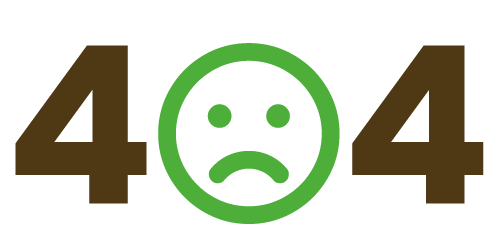
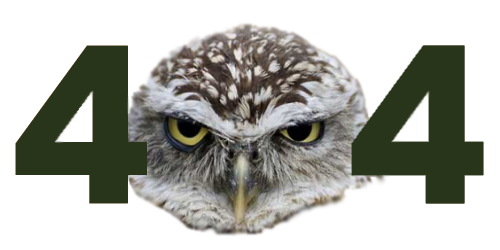
1.0.0a

diff --git a/index.html b/index.html
@@ -56,16 +56,6 @@
                         <a class="dropdown-item" href="blog-post.html">Blog Post</a>
                      </div>
                   </li>
-                  <li class="nav-item dropdown">
-                     <a class="nav-link dropdown-toggle" href="#" id="navbarDropdownBlog" data-toggle="dropdown" aria-haspopup="true" aria-expanded="false">
-                     Pages
-                     </a>
-                     <div class="dropdown-menu dropdown-menu-right" aria-labelledby="navbarDropdownBlog">
-                        <a class="dropdown-item" href="faq.html">FAQ</a>
-                        <a class="dropdown-item" href="404.html">404</a>
-                        <a class="dropdown-item" href="pricing.html">Pricing Table</a>
-                     </div>
-                  </li>
                   <li class="nav-item">
                      <a class="nav-link" href="contact.html">Contact</a>
                   </li>
@@ -75,14 +65,10 @@
     </nav>
     <header class="slider-main">
         <div id="carouselExampleIndicators" class="carousel slide carousel-fade" data-ride="carousel">
-            <ol class="carousel-indicators">
-               <li data-target="#carouselExampleIndicators" data-slide-to="0" class="active"></li>
-               <li data-target="#carouselExampleIndicators" data-slide-to="1"></li>
-               <li data-target="#carouselExampleIndicators" data-slide-to="2"></li>
             </ol>
             <div class="carousel-inner" role="listbox">
                <!-- Slide One - Set the background image for this slide in the line below -->
-               <div class="carousel-item active" style="background-image: url('images/parrot.gif')">
+               <div class="carousel-item active" style="background-image: url('images/parrot1.gif')">
                   <div class="carousel-caption d-none d-md-block">
                      <h3>Welcome to PARROT</h3>
                     
@@ -92,11 +78,9 @@
                
             </div>
             <a class="carousel-control-prev" href="#carouselExampleIndicators" role="button" data-slide="prev">
-				<span class="carousel-control-prev-icon" aria-hidden="true"></span>
 				<span class="sr-only">Previous</span>
             </a>
             <a class="carousel-control-next" href="#carouselExampleIndicators" role="button" data-slide="next">
-				<span class="carousel-control-next-icon" aria-hidden="true"></span>
 				<span class="sr-only">Next</span>
             </a>
         </div>
@@ -145,7 +129,7 @@
                <div class="col-lg-6">
                   <h2>Uccelli everywhere</h2>
                   <p>Buy one of this beautiful parrot.</p>
-                  <h5>Our smart approach</h5>
+                  <h5>Our smartest approach</h5>
                   
                   
                </div>
@@ -175,26 +159,20 @@
                <div class="col-lg-3 col-md-6 col-sm-6 col">
 					<h5 class="headin5_amrc col_white_amrc pt2">Find us</h5>
 					<!--headin5_amrc-->
-					<p class="mb10">ITI Pacinotti</p>
-					<p><i class="fa fa-location-arrow"></i> Santi Cosma e Damiani </p>
-					
-					<p><i class="fa fa fa-envelope"></i> info@example.com </p>
+					<p class="fa fa fa-envelope"><a href="https://www.itisfondi.edu.it/www/"> ITI Pacinotti</a></p>
+					<p><i class="fa fa-location-arrow"></i> Santi Cosma e Damiano</p>
                </div>
                <div class="col-lg-3 col-md-6 col-sm-6 col">
 					<h5 class="headin5_amrc col_white_amrc pt2">Follow us</h5>
 					<!--headin5_amrc ends here-->
 					<ul class="footer_ul2_amrc">
 						<li>
-							<a href="#"><i class="fab fa-twitter fleft padding-right"></i> </a>
-							<p>Lorem Ipsum is simply dummy printing...<a href="#">https://www.lipsum.com/</a></p>
+							<a href="https://www.instagram.com/st3p01/"><i class="fab fa-instagram fleft padding-right"></i> </a>
+							<p><a href="https://www.instagram.com/st3p01/">Stefano Procida</a></p>
 						</li>
 						<li>
-							<a href="#"><i class="fab fa-twitter fleft padding-right"></i> </a>
-							<p>Lorem Ipsum is simply dummy printing...<a href="#">https://www.lipsum.com/</a></p>
-						</li>
-						<li>
-							<a href="#"><i class="fab fa-twitter fleft padding-right"></i> </a>
-							<p>Lorem Ipsum is simply dummy printing...<a href="#">https://www.lipsum.com/</a></p>
+							<a href="https://www.instagram.com/ilragazzodalpastellobianco/"><i class="fab fa-instagram fleft padding-right"></i> </a>
+							<p><a href="https://www.instagram.com/ilragazzodalpastellobianco/">Nello Del Prete</p>
 						</li>
 					</ul>
 					<!--footer_ul2_amrc ends here-->
@@ -253,8 +231,7 @@
 				<a href="#"><img src="images/footer-logo.png" alt="" /></a>
 			</div>
             <!--foote_bottom_ul_amrc ends here-->
-            <p class="copyright text-center">All Rights Reserved. &copy; 2018 <a href="#">N & LW Lawn Care</a> Design By : 
-				<a href="https://html.design/">html design</a>
+            <p class="copyright text-center">All Rights Reserved. &copy; 2022-23 <a href="#">N & LW Lawn Care</a></a>
             </p>
             <ul class="social_footer_ul">
 				<li><a href="#"><i class="fab fa-facebook-f"></i></a></li>

diff --git a/contact.html b/contact.html
@@ -100,18 +100,18 @@
         <!-- Map Column -->
         <div class="col-lg-8 mb-4">
           <!-- Embedded Google Map -->
-          <iframe width="100%" height="300px" frameborder="0" scrolling="no" marginheight="0" marginwidth="0" src="http://maps.google.com/maps?hl=en&amp;ie=UTF8&amp;ll=37.0625,-95.677068&amp;spn=56.506174,79.013672&amp;t=m&amp;z=4&amp;output=embed"></iframe>
+          <iframe width="100%" height="300px" frameborder="0" scrolling="no" marginheight="0" marginwidth="0" src="http://maps.google.com/maps?hl=en&amp;ie=UTF8&amp;ll=41.3010248,13.81523&amp;spn=41.3010248,13.81523&amp;t=m&amp;z=16&amp;output=embed"></iframe>
         </div>
         <!-- Contact Details Column -->
         <div class="col-lg-4 mb-4 contact-right">
           <h3>Contact Details</h3>
           <p>
-            3481 Melrose Place
-            <br>Beverly Hills, CA 90210
+            Via Selce, 10
+            <br>04020 Santi Cosma e Damiano LT
             <br>
           </p>
           <p>
-            <abbr title="Phone">P</abbr>: (123) 456-7890
+            <abbr title="Phone">P</abbr>: +39 3914338247
           </p>
           <p>
             <abbr title="Email">E</abbr>:
@@ -119,7 +119,7 @@
             </a>
           </p>
           <p>
-            <abbr title="Hours">H</abbr>: Monday - Friday: 9:00 AM to 5:00 PM
+            <abbr title="Hours">H</abbr>: Every F**king day man! Gli uccelli vibano tutti i giorni!
           </p>
         </div>
       </div>

diff --git a/404.html b/404.html
@@ -74,34 +74,19 @@
         </div>
     </nav>
 	
-	<!-- full Title -->
-	<div class="full-title">
-		<div class="container">
-			<!-- Page Heading/Breadcrumbs -->
-			<h1 class="mt-4 mb-3">404
-				<small>Page Not Found</small>
-			</h1>
-		</div>
-	</div>
 
     <!-- Page Content -->
     <div class="container">
-		<div class="breadcrumb-main">
-			<ol class="breadcrumb">
-				<li class="breadcrumb-item">
-					<a href="index.html">Home</a>
 				</li>
-				<li class="breadcrumb-item active">404</li>
 			</ol>
 		</div>
 
 		<div class="error-contents">
-			<h3>Oops! That page can’t be found.</h3>
+			<h3>Frate dov'è il mio uccello?</h3>
 			<div class="error-img">
 				<img class="img-fluid" src="images/404.png" alt="" />
 			</div>
-			<p>We can’t find the page your are looking for. You can check out our <a href="#">Homepage</a>.</p>
-			<a class="btn btn-primary" href="#"> Back To Homepage </a>
+			<p>Non abbiamo potuto trovare la pagina che sta cercando, solitamente agli uccelli piace scherzare. Prova di nuovo tornando sulla nostra <a href="#">Homepage</a>.</p>
 		</div>
 		<!-- /.jumbotron -->
 
